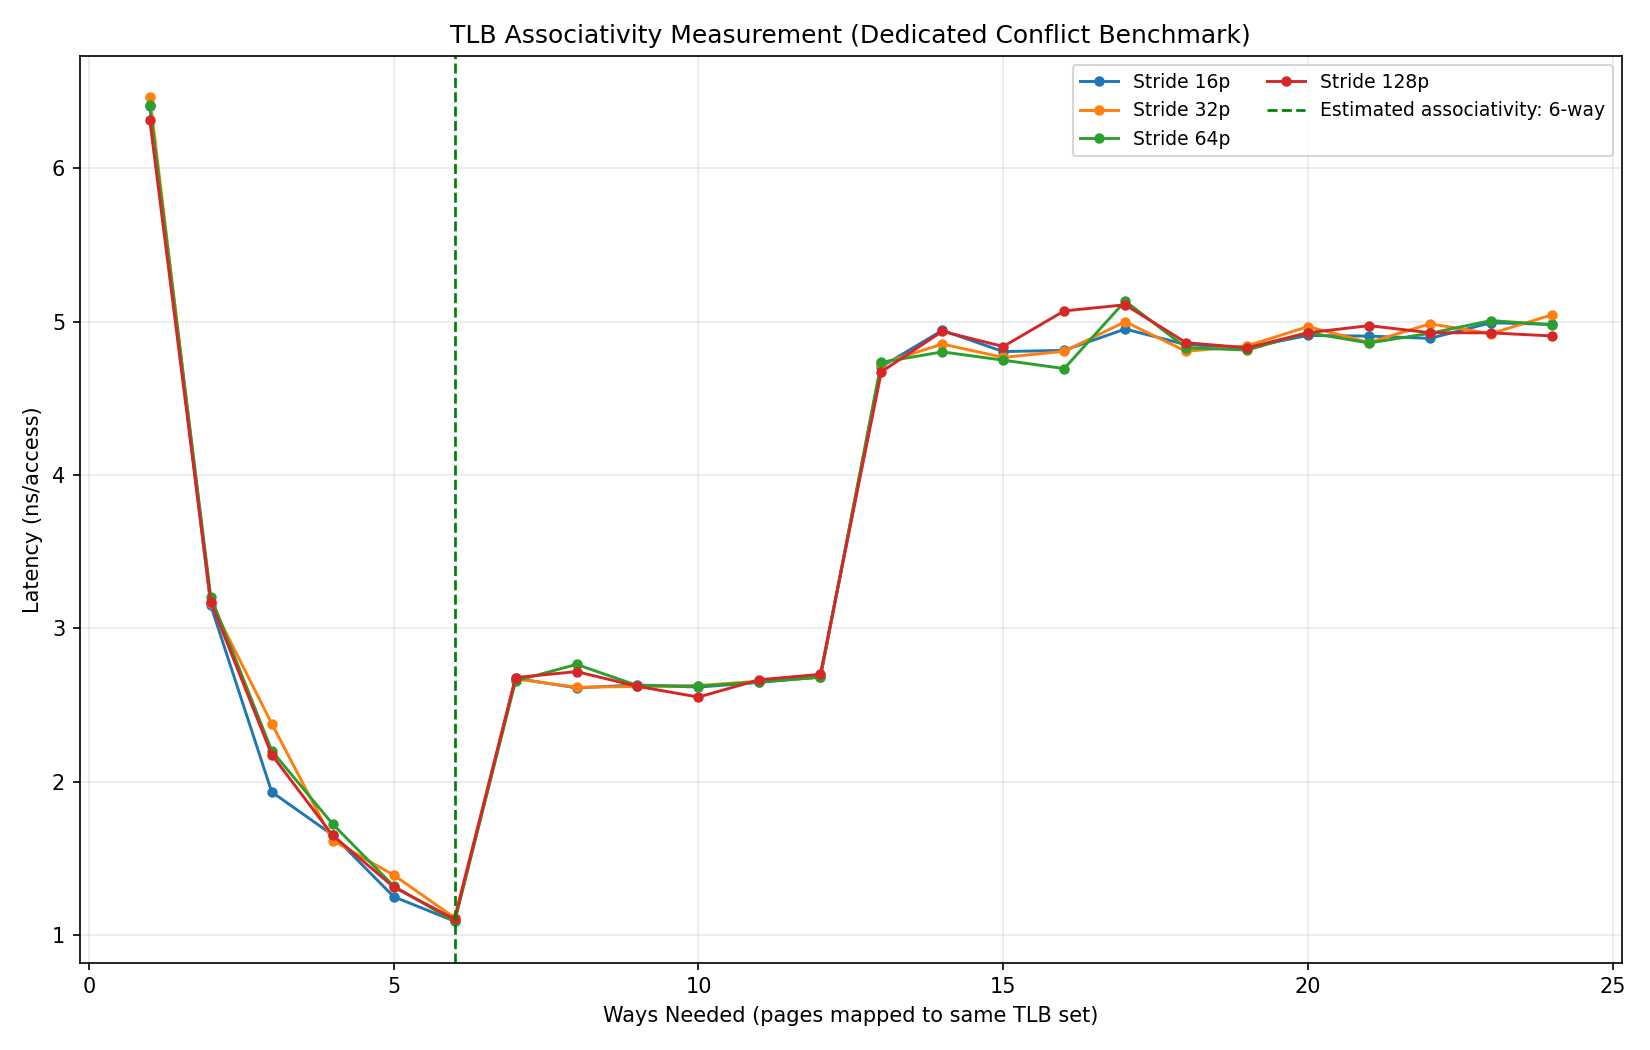
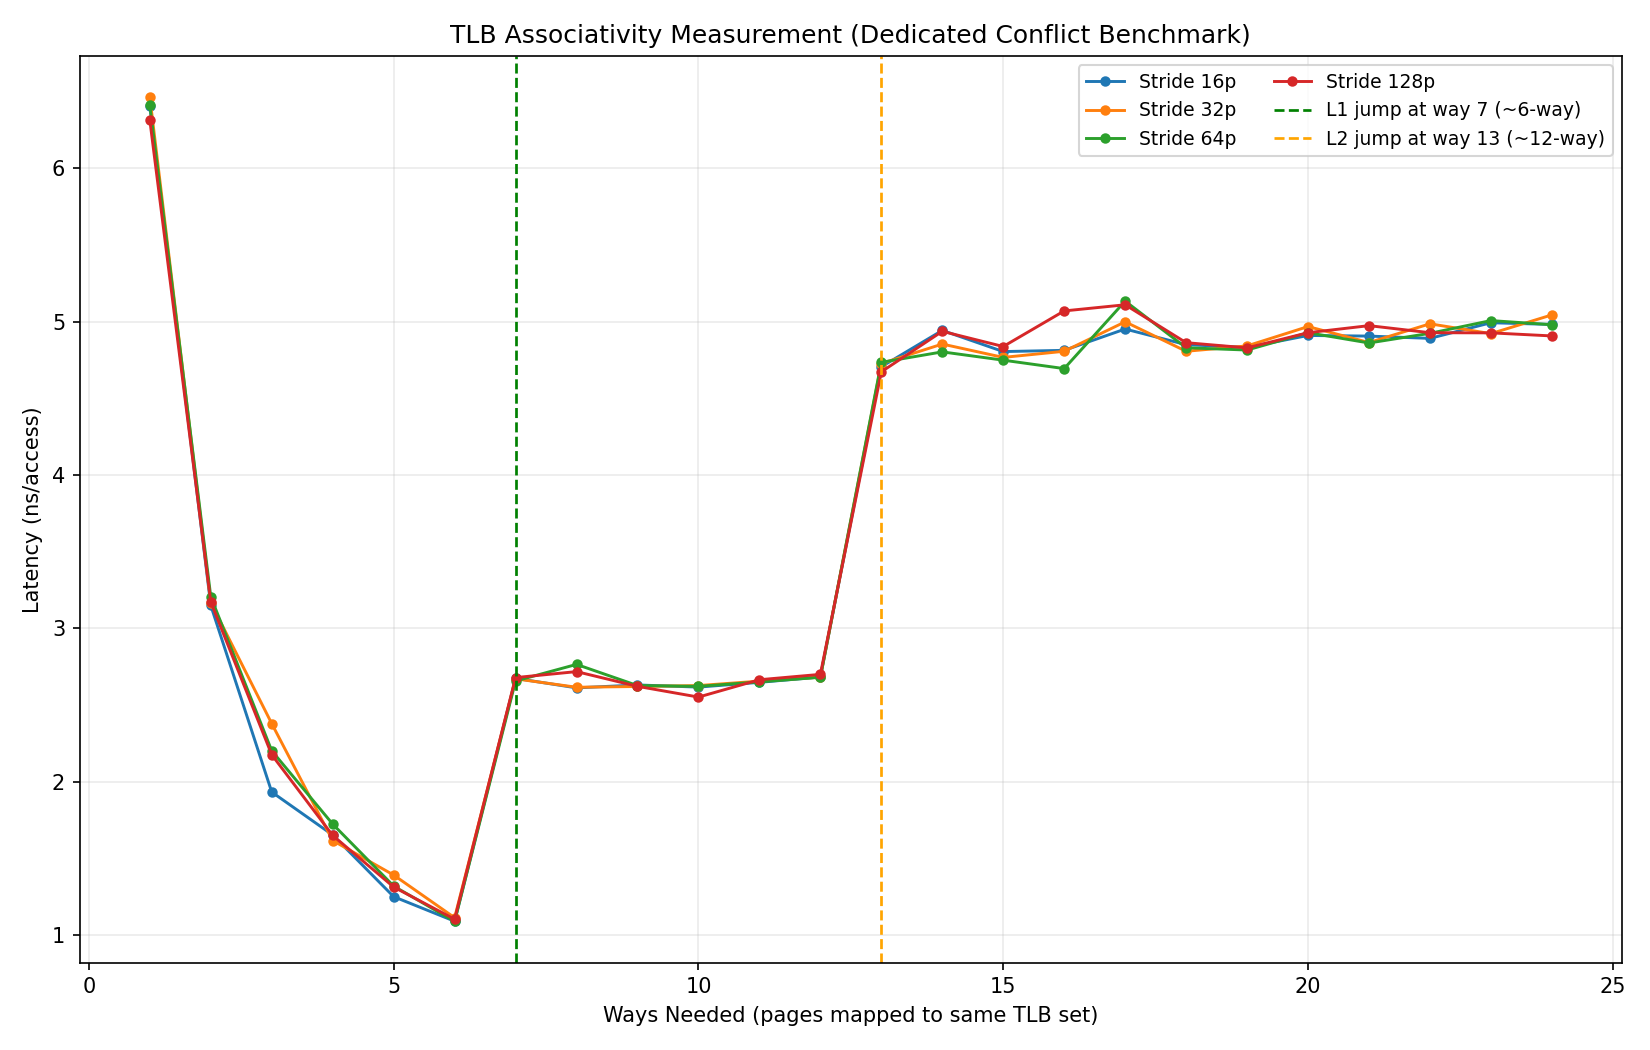
feat: add CPU affinity pinning and improve TLB analysis metrics in benchmarks

Changed region(s): [[0.8036, 0.061, 0.9582, 0.1524], [0.6491, 0.061, 0.7418, 0.1524]]

diff --git a/ComputerArchitecture/plot_memory_benchmark.py b/ComputerArchitecture/plot_memory_benchmark.py
@@ -212,13 +212,13 @@ def estimate_tlb_entries_and_penalty(array_bytes, stride_bytes, matrix, page_str
     if len(pages) < 4:
         return col_idx, None, None
 
-    # Knee: strongest multiplicative rise between neighboring points.
+    # Knee: detect first sustained jump, but do not discard the sub-64-page region
+    # because many CPUs have L1 DTLB around this scale.
     first_significant_knee = None
     best_knee_i = None
     best_score = 0.0
     for i in range(1, len(latencies)):
-        # Ignore very small page working sets that are dominated by cache effects.
-        if pages[i] < 64:
+        if pages[i] < 4:
             continue
         prev_v = latencies[i - 1]
         cur_v = latencies[i]
@@ -226,7 +226,7 @@ def estimate_tlb_entries_and_penalty(array_bytes, stride_bytes, matrix, page_str
             continue
         ratio = cur_v / prev_v
         delta = cur_v - prev_v
-        if first_significant_knee is None and ratio >= 1.5 and delta >= 1.0:
+        if first_significant_knee is None and ratio >= 1.35 and delta >= 0.8:
             first_significant_knee = i
         score = (ratio - 1.0) * cur_v
         if score > best_score:
@@ -254,9 +254,9 @@ def estimate_tlb_entries_and_penalty(array_bytes, stride_bytes, matrix, page_str
     return col_idx, tlb_entries_est, penalty
 
 
-def estimate_tlb_associativity(ways, series) -> int | None:
+def estimate_tlb_associativity(ways, series) -> tuple[int | None, int | None]:
     if not ways or not series:
-        return None
+        return None, None
 
     avg_latency = []
     for i in range(len(ways)):
@@ -268,29 +268,33 @@ def estimate_tlb_associativity(ways, series) -> int | None:
 
     finite_pairs = [(w, v) for w, v in zip(ways, avg_latency) if is_finite_number(v)]
     if len(finite_pairs) < 4:
-        return None
+        return None, None
 
     # Ignore the very first points, which can be noisy due to tiny loop bodies.
     candidate_pairs = [pair for pair in finite_pairs if pair[0] >= 6]
     if len(candidate_pairs) < 3:
         candidate_pairs = finite_pairs
 
-    # Detect first stable jump. If transition happens at way N,
+    # Detect sustained jumps. If transition happens at way N,
     # associativity is approximately (N - 1)-way.
-    jump_way = None
+    jump_ways = []
     for i in range(1, len(candidate_pairs) - 1):
         w, cur_v = candidate_pairs[i]
         _, prev_v = candidate_pairs[i - 1]
         _, next_v = candidate_pairs[i + 1]
         delta = cur_v - prev_v
         if delta >= 1.0 and cur_v >= prev_v * 1.25 and next_v >= prev_v * 1.20:
-            jump_way = w
-            break
+            jump_ways.append(w)
 
-    if jump_way is not None and jump_way >= 2:
-        return jump_way - 1
+    if not jump_ways:
+        return None, None
 
-    return None
+    l1_assoc = jump_ways[0] - 1 if jump_ways[0] >= 2 else None
+    l2_assoc = None
+    if len(jump_ways) >= 2 and jump_ways[1] >= 2:
+        l2_assoc = jump_ways[1] - 1
+
+    return l1_assoc, l2_assoc
 
 
 def plot_heatmap(stride_bytes, array_bytes, matrix, out_path: Path):
@@ -477,15 +481,17 @@ def plot_tlb_associativity_probe(stride_bytes, array_labels, array_bytes, matrix
     plt.close(fig)
 
 
-def plot_tlb_associativity_conflict(stride_labels, ways, series, assoc_est, out_path: Path):
+def plot_tlb_associativity_conflict(stride_labels, ways, series, l1_assoc_est, l2_assoc_est, out_path: Path):
     fig, ax = plt.subplots(figsize=(11, 7))
 
     for label in stride_labels:
         y = [max(v, DISPLAY_MIN_NS) if is_finite_number(v) else float("nan") for v in series[label]]
         ax.plot(ways, y, marker="o", linewidth=1.4, markersize=4, label=f"Stride {label}")
 
-    if assoc_est is not None:
-        ax.axvline(assoc_est, color="green", linestyle="--", linewidth=1.3, label=f"Estimated associativity: {assoc_est}-way")
+    if l1_assoc_est is not None:
+        ax.axvline(l1_assoc_est + 1, color="green", linestyle="--", linewidth=1.3, label=f"L1 jump at way {l1_assoc_est + 1} (~{l1_assoc_est}-way)")
+    if l2_assoc_est is not None:
+        ax.axvline(l2_assoc_est + 1, color="orange", linestyle="--", linewidth=1.3, label=f"L2 jump at way {l2_assoc_est + 1} (~{l2_assoc_est}-way)")
 
     ax.set_xlabel("Ways Needed (pages mapped to same TLB set)")
     ax.set_ylabel("Latency (ns/access)")
@@ -498,7 +504,7 @@ def plot_tlb_associativity_conflict(stride_labels, ways, series, assoc_est, out_
     plt.close(fig)
 
 
-def write_tlb_summary(out_path: Path, page_stride_bytes: int, tlb_entries_est, tlb_miss_penalty_est, tlb_assoc_est):
+def write_tlb_summary(out_path: Path, page_stride_bytes: int, tlb_entries_est, tlb_miss_penalty_est, tlb_l1_assoc_est, tlb_l2_assoc_est):
     lines = [
         "TLB Analysis Summary (heuristic)",
         "================================",
@@ -515,10 +521,15 @@ def write_tlb_summary(out_path: Path, page_stride_bytes: int, tlb_entries_est, t
     else:
         lines.append(f"Estimated TLB miss penalty: ~{tlb_miss_penalty_est:.2f} ns/load")
 
-    if tlb_assoc_est is None:
-        lines.append("Estimated TLB associativity: inconclusive (please run dedicated conflict benchmark)")
+    if tlb_l1_assoc_est is None:
+        lines.append("Estimated L1 TLB associativity: inconclusive")
     else:
-        lines.append(f"Estimated TLB associativity: ~{tlb_assoc_est}-way")
+        lines.append(f"Estimated L1 TLB associativity: ~{tlb_l1_assoc_est}-way")
+
+    if tlb_l2_assoc_est is None:
+        lines.append("Estimated L2/STLB associativity: inconclusive")
+    else:
+        lines.append(f"Estimated L2/STLB associativity: ~{tlb_l2_assoc_est}-way")
 
     out_path.write_text("\n".join(lines) + "\n", encoding="utf-8")
 
@@ -563,15 +574,17 @@ def main():
     plot_tlb_entries_probe(array_bytes, stride_bytes, matrix, page_stride_bytes, entries_probe_path)
     plot_tlb_associativity_probe(stride_bytes, array_labels, array_bytes, matrix, page_stride_bytes, assoc_probe_path)
 
-    tlb_assoc_est = None
+    tlb_l1_assoc_est = None
+    tlb_l2_assoc_est = None
     if assoc_csv_path.exists():
         stride_labels_assoc, ways_assoc, series_assoc = read_tlb_assoc_csv(assoc_csv_path)
-        tlb_assoc_est = estimate_tlb_associativity(ways_assoc, series_assoc)
+        tlb_l1_assoc_est, tlb_l2_assoc_est = estimate_tlb_associativity(ways_assoc, series_assoc)
         plot_tlb_associativity_conflict(
             stride_labels_assoc,
             ways_assoc,
             series_assoc,
-            tlb_assoc_est,
+            tlb_l1_assoc_est,
+            tlb_l2_assoc_est,
             assoc_conflict_path,
         )
 
@@ -580,7 +593,8 @@ def main():
         page_stride_bytes,
         tlb_entries_est,
         tlb_miss_penalty_est,
-        tlb_assoc_est,
+        tlb_l1_assoc_est,
+        tlb_l2_assoc_est,
     )
 
     print(f"Saved: {heatmap_path}")

diff --git a/ComputerArchitecture/HW2_2.25.c b/ComputerArchitecture/HW2_2.25.c
@@ -28,6 +28,14 @@
 int x[ARRAY_MAX];
 volatile int benchmark_sink = 0;
 
+void pin_thread_to_core0(void) {
+    HANDLE thread = GetCurrentThread();
+    DWORD_PTR prev_mask = SetThreadAffinityMask(thread, (DWORD_PTR)1);
+    if (prev_mask == 0) {
+        fprintf(stderr, "Warning: failed to set CPU affinity.\n");
+    }
+}
+
 double get_seconds() {
     LARGE_INTEGER cnt, freq;
     QueryPerformanceCounter(&cnt);
@@ -48,9 +56,11 @@ void label(int bytes) {
 
 double measure_pointer_chase_ns_per_access(int start_index, int access_count, double measure_secs) {
     int i, nextstep;
-    double steps, sec0, sec1, sec, tsteps;
+    double sec0, sec1, sec;
+    unsigned long long steps;
+    unsigned long long k;
 
-    steps = 0.0;
+    steps = 0;
     sec0 = get_seconds();
     do {
         nextstep = start_index;
@@ -58,28 +68,26 @@ double measure_pointer_chase_ns_per_access(int start_index, int access_count, do
             nextstep = x[nextstep];
         } while (nextstep != start_index);
         benchmark_sink ^= nextstep;
-        steps += 1.0;
+        steps += 1;
         sec1 = get_seconds();
     } while ((sec1 - sec0) < measure_secs);
     sec = sec1 - sec0;
 
     /* Time-loop overhead subtraction. */
-    tsteps = 0.0;
     sec0 = get_seconds();
-    do {
+    for (k = 0; k < steps; k++) {
         nextstep = start_index;
         for (i = 0; i < access_count; i++) {
             nextstep += 1;
         }
         benchmark_sink ^= nextstep;
-        tsteps += 1.0;
-        sec1 = get_seconds();
-    } while (tsteps < steps);
+    }
+    sec1 = get_seconds();
     sec -= (sec1 - sec0);
 
     if (sec < 0.0)
         sec = 0.0;
-    return (sec * 1e9) / (steps * (double)access_count);
+    return (sec * 1e9) / ((double)steps * (double)access_count);
 }
 
 void run_tlb_associativity_benchmark(const char *out_csv) {
@@ -110,6 +118,7 @@ void run_tlb_associativity_benchmark(const char *out_csv) {
         for (s = 0; s < stride_count; s++) {
             int stride_pages = stride_pages_list[s];
             int stride_elems = stride_pages * PAGE_ELEMS;
+            int start_index;
             double ns_per_access;
 
             for (w = 0; w < ways; w++) {
@@ -123,7 +132,8 @@ void run_tlb_associativity_benchmark(const char *out_csv) {
                 x[cur] = next;
             }
 
-            ns_per_access = measure_pointer_chase_ns_per_access(0, ways, TLB_ASSOC_MEASURE_SECS);
+            start_index = ((ways / 2) % ways) * stride_elems;
+            ns_per_access = measure_pointer_chase_ns_per_access(start_index, ways, TLB_ASSOC_MEASURE_SECS);
             if (ns_per_access < 0.1)
                 ns_per_access = 0.1;
             fprintf(fp, ",%.3f", ns_per_access);
@@ -136,8 +146,11 @@ void run_tlb_associativity_benchmark(const char *out_csv) {
 
 int main(int argc, char **argv) {
     int nextstep, i, index, stride, csize;
-    double steps, tsteps;
+    unsigned long long steps;
+    unsigned long long k;
     double loadtime, sec0, sec1, sec, lastsec;
+
+    pin_thread_to_core0();
 
     if (argc > 1 && strcmp(argv[1], "--tlb-assoc-only") == 0) {
         run_tlb_associativity_benchmark("tlb_assoc_benchmark.csv");
@@ -168,15 +181,19 @@ int main(int argc, char **argv) {
         label(csize * (int)sizeof(int));
 
         for (stride = 1; stride <= csize / 2; stride *= 2) {
+            int prev;
 
-            for (index = 0; index < csize; index += stride)
-                x[index] = index + stride;
-            x[index - stride] = 0;
+            prev = 0;
+            for (index = stride; index < csize; index += stride) {
+                x[prev] = index;
+                prev = index;
+            }
+            x[prev] = 0;
 
             lastsec = get_seconds();
             do { sec0 = get_seconds(); } while (sec0 == lastsec);
 
-            steps = 0.0;
+            steps = 0;
             nextstep = 0;
             sec0 = get_seconds();
             do {
@@ -185,25 +202,23 @@ int main(int argc, char **argv) {
                     do { nextstep = x[nextstep]; } while (nextstep != 0);
                     benchmark_sink ^= nextstep;
                 }
-                steps += 1.0;
+                steps += 1;
                 sec1 = get_seconds();
             } while ((sec1 - sec0) < MEASURE_SECS);
             sec = sec1 - sec0;
 
-            tsteps = 0.0;
             sec0 = get_seconds();
-            do {
+            for (k = 0; k < steps; k++) {
                 for (i = stride; i != 0; i--) {
                     index = 0;
                     do { index += stride; } while (index < csize);
                     benchmark_sink ^= index;
                 }
-                tsteps += 1.0;
-                sec1 = get_seconds();
-            } while (tsteps < steps);
+            }
+            sec1 = get_seconds();
             sec -= (sec1 - sec0);
 
-            loadtime = (sec * 1e9) / (steps * (double)csize);
+            loadtime = (sec * 1e9) / ((double)steps * (double)csize);
             printf("%4.1f,", (loadtime < 0.1) ? 0.1 : loadtime);
         }
         printf("\n");

diff --git a/ComputerArchitecture/README.md b/ComputerArchitecture/README.md
@@ -28,17 +28,18 @@ a. 系統 page size 為 **4 KB**。
 對應圖：`tlb_page_size_probe.png`  
 依據：在大工作集下，stride 到 4KB 附近出現明顯轉折。
 
-b. TLB entries 約為 **512 entries**（以 stride = 1 page 時，工作集跨頁數的轉折點估計）。  
+b. **實驗觀測的有效條目數約為 512（effective entries）**，不是直接等同硬體規格值。  
 對應圖：`tlb_entries_probe.png`  
-依據：Pages touched 增加到約 512 時，延遲曲線有主要膝點。
+依據：Pages touched 增加到約 512 時，延遲曲線出現主要膝點。  
+補充：i5-14500 常見規格為 L1 DTLB 約 64、STLB 約 2048；本實驗值 512 反映的是此存取模式下的「有效覆蓋量」，可能混合多層 TLB 與 cache 影響。
 
 c. TLB miss penalty 約為 **14.86 ns/access**（以 TLB 命中區與未命中區平均延遲差估計）。  
 對應圖：`tlb_entries_probe.png`、`tlb_analysis_summary.txt`  
 依據：TLB miss 區與 hit 區的平均延遲差。
 
-d. TLB associativity 以目前完成實測推估約為 **6-way**。  
+d. **本實驗觀測到兩段轉折：第一段約 7（對應約 6-way），第二段約 13（對應約 12-way）**。  
 對應圖：`tlb_associativity_conflict.png`、`tlb_assoc_benchmark.csv`  
-說明：本次完整資料第一個穩定轉折出現在 way=7（依 N-1 規則得 6-way）；另在 13 附近仍可見第二段上升，可能是更高層 TLB 的影響。
+說明：若用 N-1 規則，第一轉折給 6-way、第二轉折給 12-way。由於 i5-14500 已知 STLB 為 12-way，第二段與規格更一致；第一段可能是 L1/量測噪聲/混合效應。
 
 ## 圖表說明（如何對應題目）
 
